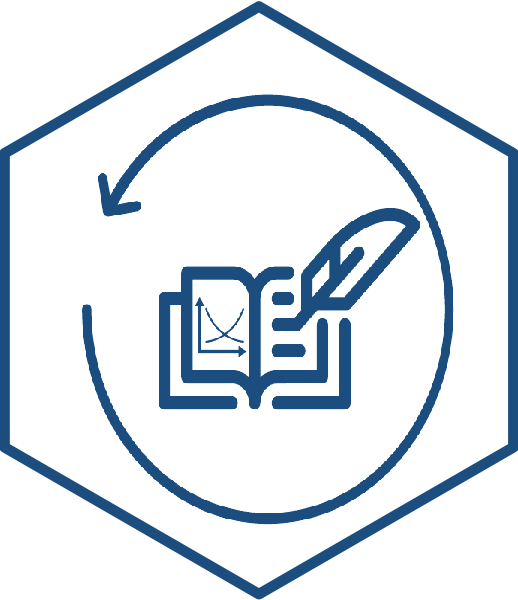
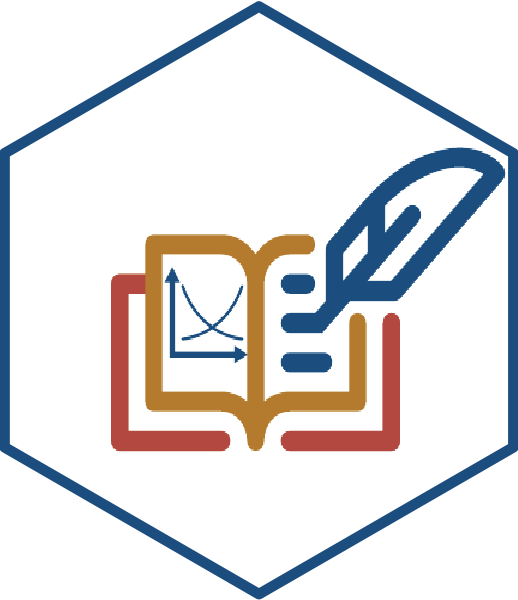
Fix link to Fall ECON 306, update thought hexicon

Changed region(s): [[0.1544, 0.15, 0.9884, 0.9]]

diff --git a/content/home/teaching.md b/content/home/teaching.md
@@ -22,7 +22,7 @@ weight = 8
 
 |   |     |
 |----|----|
-| <img src="https://ryansafner.com/img/micro_hex.png" alt="" width="75"/> | [ECON 306 - Microeconomic Analysis](http://microS20.classes.ryansafner.com) |
+| <img src="https://ryansafner.com/img/micro_hex.png" alt="" width="75"/> | [ECON 306 - Microeconomic Analysis](http://microF20.classes.ryansafner.com) |
 | <img src="https://ryansafner.com/img/trade_hex.png" alt="" width="75"/> | [ECON 324 - International Trade](http://tradeF20.classes.ryansafner.com) |
 | <img src="https://ryansafner.com/img/thought_hex.png" alt="" width="75"/> | [ECON 452 - History of Economic Thought](http://thoughtF20.classes.ryansafner.com) |
 | <img src="https://ryansafner.com/img/metrics_hex.png" alt="" width="75"/> | [ECON 480 - Econometrics](http://metricsF20.classes.ryansafner.com) |
